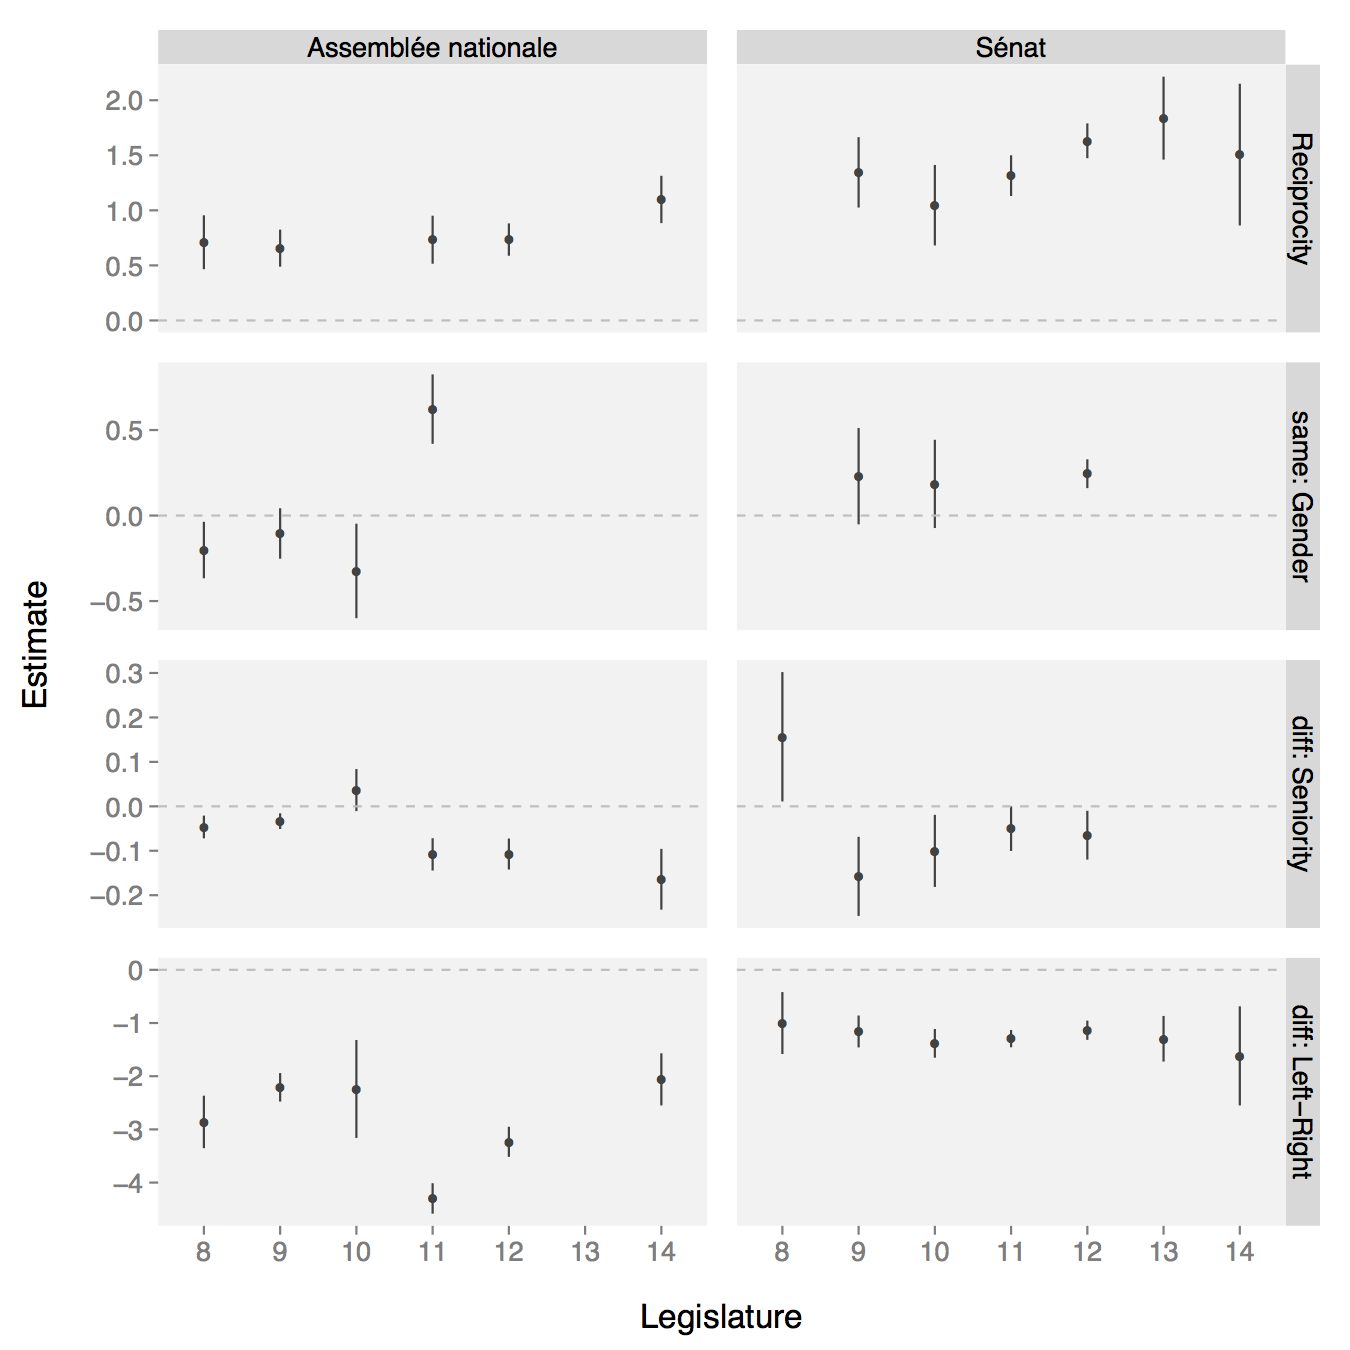
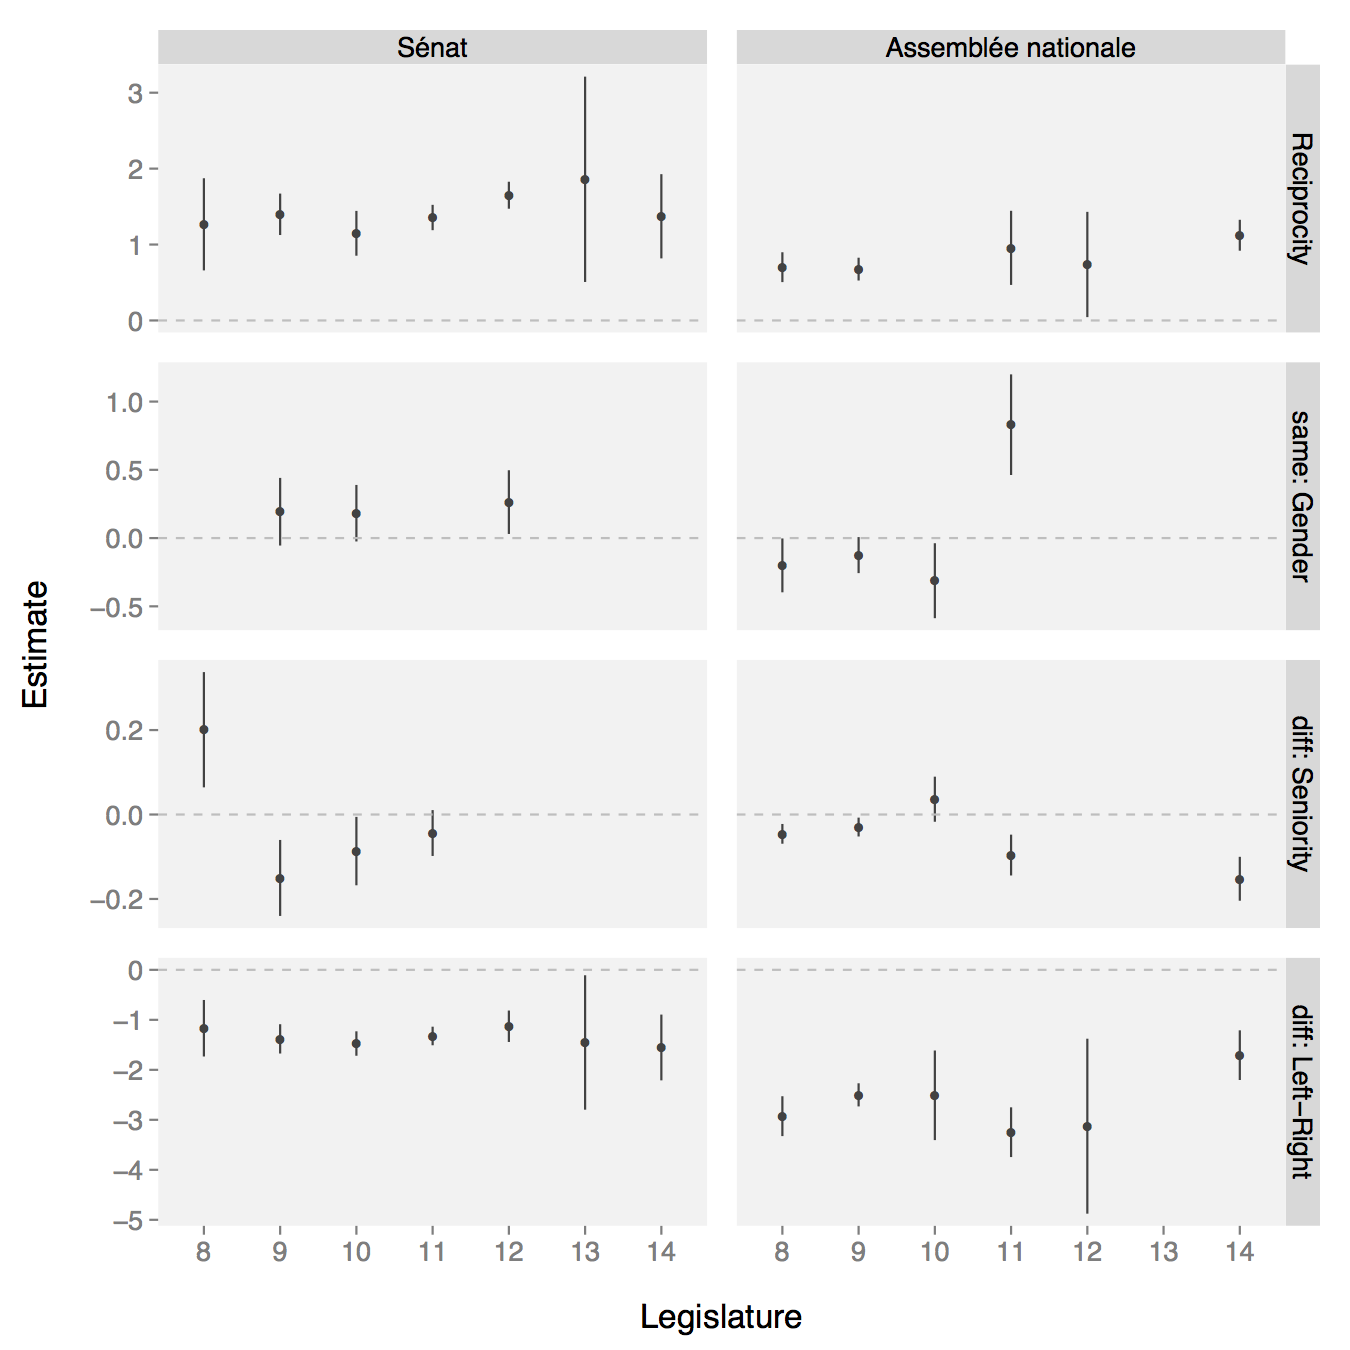
corrected ERGM results
fixes for small-n issues, five times more iterations, seeded for
reproducibility

diff --git a/slides/index.html b/slides/index.html
@@ -239,7 +239,7 @@
     <!-- ERGM results 2/2 -->
     <article class='nobackground smaller'>
 
-      <p class="fig"><img style='centered' src="figures/ergm_diff_0.025_0.975.png" title="" /></p>
+      <p class="fig" style="margin-top:-2em;"><img style='centered' src="figures/ergm_diff_0.025_0.975.png" title="" /></p>
 
     </article>
 

diff --git a/models/README.md b/models/README.md
@@ -16,7 +16,7 @@ The model takes a few days to converge on all series, and does so unequally well
 
 ## `ergm`
 
-Exponential random graph models that look at fixed differential homophily effects in the cosponsorship networks of each legislature. Estimates are provided only for major parliamentary groups where the sample size is sufficient to correctly estimate standard errors and avoid further model degeneracy due to infinite coefficients.
+Exponential random graph models that look at fixed differential homophily effects in the cosponsorship networks of each legislature. Differential homophily estimates are provided for parliamentary groups with at least ten members present in the network sample (Senate rules require only ten members to form a group; National Assembly rules used to require 20 before 2009, and now require only 15).
 
 The `ergm` ([Morris, Handock and Hunter 2008](http://www.jstatsoft.org/v24/i04)) specification is
 
@@ -27,7 +27,8 @@ ergm(net ~ edges +
      nodematch("female") + 
      nodematch("party", diff = TRUE) + 
      absdiffcat("rightwing"),
-   control = control.ergm(MCMLE.trustregion = 1000)
+   control = control.ergm(MCMLE.trustregion = 10^3,
+                          MCMLE.maxit = 100, seed = 3258)
 ```
 
 Prior to passing the network to the model, we thin it ([Cranmer and Desmarais 2011](http://people.umass.edu/bruced/pubs/Cranmer_Desmarais_PA2011.pdf), p. 78) by taking two quantiles of the log-distribution of edge weights, and subsampling the network to ties contained within this range. Because the log-distribution of edges weights is approximately normal in many cases, the default values (0.025, 0.975) thin the networks to an approximate maximum of 5% of all edges.
